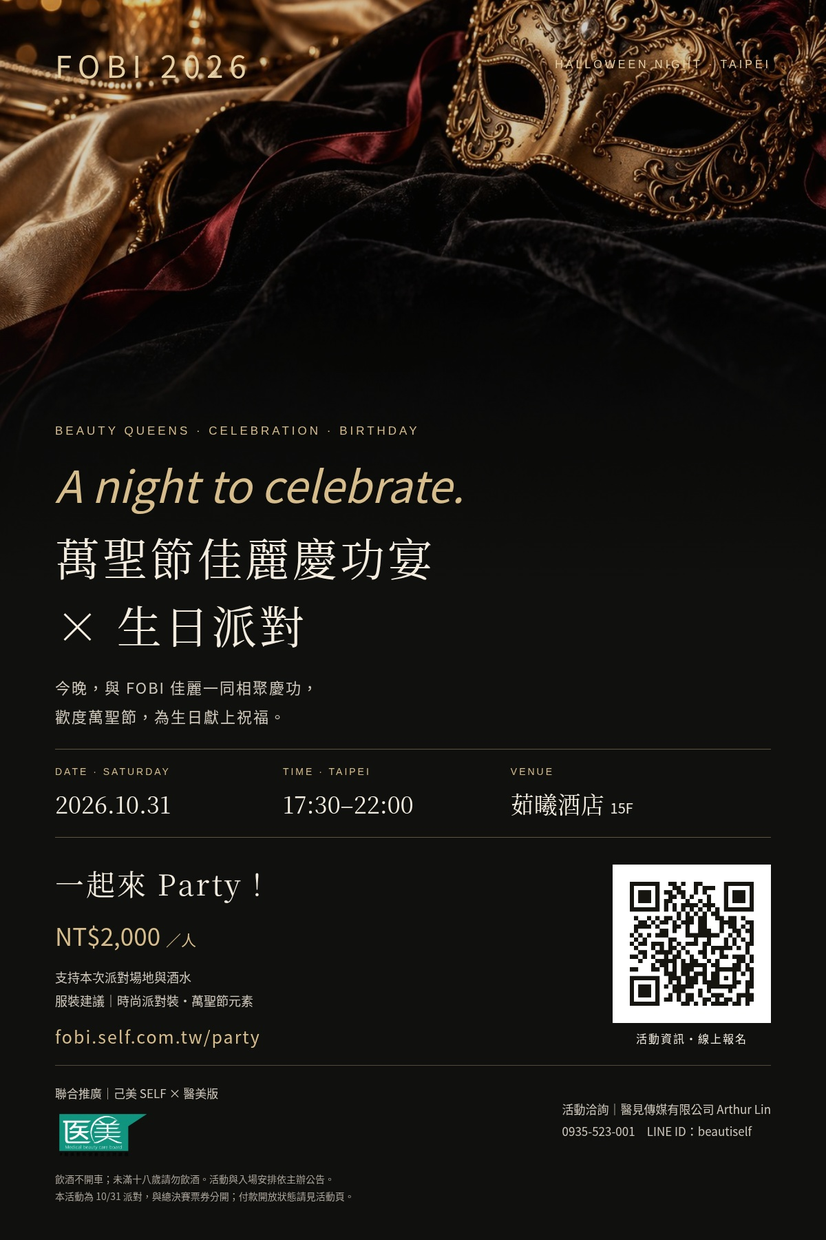
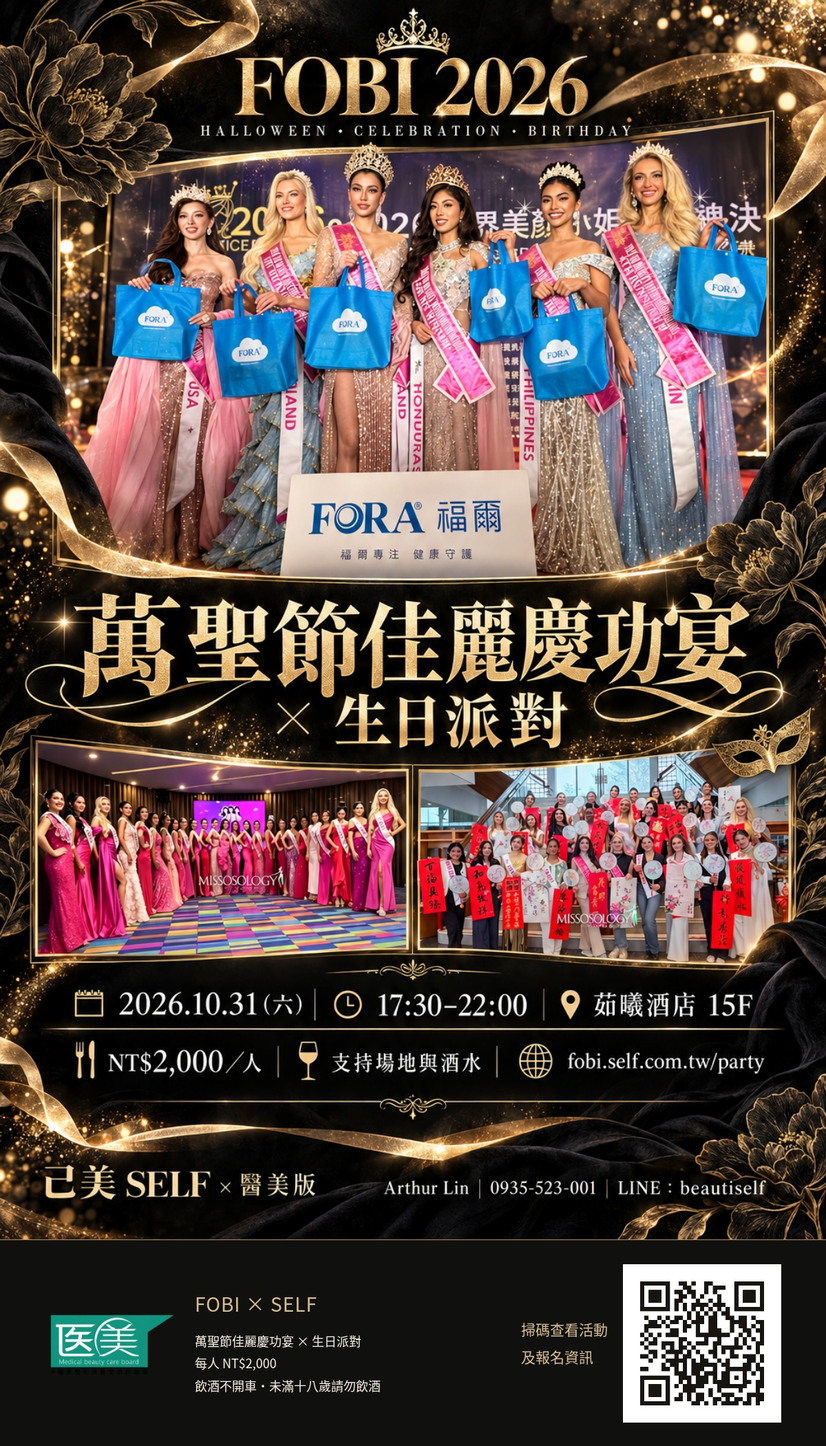
Add supplied queens photo artwork to Halloween invitation and party gallery

diff --git a/party.html b/party.html
@@ -1,1 +1,1 @@
-<!doctype html><html lang="zh-Hant"><head><meta charset="utf-8"><meta name="viewport" content="width=device-width,initial-scale=1"><title>FOBI 萬聖節佳麗慶功宴 × 生日派對｜10/31 茹曦酒店</title><meta name="description" content="10月31日17:30–22:00，茹曦酒店15F。FOBI萬聖節佳麗慶功宴與生日派對，每人NT$2,000，支持場地與酒水，一起共度時尚派對夜。"><meta property="og:title" content="今晚，與佳麗一起慶功｜FOBI Halloween Party"><meta property="og:description" content="10.31｜17:30–22:00｜茹曦酒店15F｜NT$2,000／人"><meta property="og:image" content="https://fobi.self.com.tw/party/invitation-2000.jpg"><meta property="og:url" content="https://fobi.self.com.tw/party"><link rel="stylesheet" href="/party/party.css"></head><body><header><a class="wordmark" href="/">FOBI <span>2026</span></a><a class="nav-link" href="#join">加入派對 ↗</a></header><main><section class="hero"><div class="art" aria-hidden="true"></div><div class="hero-content"><div class="eyebrow">31 OCTOBER · TAIPEI · ONE BEAUTIFUL NIGHT</div><p class="script">A night to celebrate.</p><h1>萬聖節佳麗慶功宴<br><span>× 生日派對</span></h1><p class="english">HALLOWEEN · BEAUTY QUEENS · BIRTHDAY</p><p class="intro">今晚，把掌聲留給舞台上的她們，<br>也把祝福留給值得慶祝的每一刻。</p><a class="primary" href="#join">一起來 Party <span>↗</span></a></div><div class="event-strip"><div><small>DATE</small><strong>2026.10.31 <em>六</em></strong></div><div><small>TIME · TAIPEI</small><strong>17:30—22:00</strong></div><div><small>VENUE</small><strong>茹曦酒店 <em>15F</em></strong></div></div></section><section class="story"><div><div class="eyebrow">CELEBRATE TOGETHER</div><h2>卸下舞台的緊張，<br>繼續閃耀。</h2></div><div><p>FOBI 佳麗將一同到場，與大家相聚慶功、歡度萬聖節，也為生日獻上祝福。邀請您一起支持場地與酒水，讓這個夜晚更精彩。</p><p class="muted">服裝建議｜時尚派對裝・可搭配萬聖節元素<br>飲酒不開車；未滿十八歲請勿飲酒。</p><a class="text-link" href="https://www.google.com/maps/search/?api=1&amp;query=茹曦酒店" target="_blank" rel="noopener">查看茹曦酒店位置 ↗</a></div></section><section id="join" class="booking"><div class="booking-copy"><div class="eyebrow">YOU ARE INVITED</div><h2>今晚，<br>一起 Party。</h2><div class="price"><small>每人</small> NT$2,000</div><p>支持本次派對場地與酒水。<br>本活動為 10/31 派對，與總決賽票券分開。</p><a class="text-link" href="/party/invitation-2000.jpg" download>下載派對邀請卡 ↗</a><p class="contact">活動洽詢｜Arthur Lin<br><a href="tel:+886935523001">0935-523-001</a> · LINE：beautiself</p></div><form id="partyForm"><div class="login"><button type="button" data-provider="google" disabled>己美會員登入</button><button type="button" class="line" data-provider="line" disabled>LINE 快速登入</button></div><p class="muted small" id="memberStatus" role="status">亦可直接填寫資料報名。</p><label>姓名<input id="name" name="name" autocomplete="name" maxlength="120" required></label><div class="form-row"><label>手機<input id="phone" name="phone" type="tel" autocomplete="tel" pattern="[+0-9 ()\-]{7,30}" required></label><label>電子郵件<input id="email" name="email" type="email" autocomplete="email" maxlength="180" required></label></div><label>參加人數<select id="quantity" name="quantity"><option value="1">1 位</option><option value="2">2 位</option><option value="3">3 位</option><option value="4">4 位</option><option value="5">5 位</option><option value="6">6 位</option><option value="7">7 位</option><option value="8">8 位</option><option value="9">9 位</option><option value="10">10 位</option></select></label><div class="total"><span>應付總額</span><strong id="total">NT$2,000</strong></div><p id="paymentStatus" class="payment-status" role="status">正在確認線上付款狀態…</p><button class="primary pay" id="pay" type="submit" disabled>前往綠界付款 ↗</button><p id="formStatus" class="small" role="status" aria-live="polite"></p><div id="receipt" hidden></div><p class="muted small">付款結果以系統查核為準；活動異動、取消或退款事宜，請聯絡活動窗口。</p></form></section></main><footer><div>FOBI 2026 <span>× 己美 SELF × 醫美版</span><img src="https://www.self.com.tw/fobi/assets/medical-board-logo.png" alt="醫美版" width="130"></div><div>合作洽詢｜醫見傳媒有限公司 Arthur Lin<br>0935-523-001 · LINE ID beautiself</div></footer><script type="module" src="/party-flow.js"></script></body></html>
+<!doctype html><html lang="zh-Hant"><head><meta charset="utf-8"><meta name="viewport" content="width=device-width,initial-scale=1"><title>FOBI 萬聖節佳麗慶功宴 × 生日派對｜10/31 茹曦酒店</title><meta name="description" content="10月31日17:30–22:00，茹曦酒店15F。FOBI萬聖節佳麗慶功宴與生日派對，每人NT$2,000，支持場地與酒水，一起共度時尚派對夜。"><meta property="og:title" content="今晚，與佳麗一起慶功｜FOBI Halloween Party"><meta property="og:description" content="10.31｜17:30–22:00｜茹曦酒店15F｜NT$2,000／人"><meta property="og:image" content="https://fobi.self.com.tw/party/invitation-queens-2000.jpg"><meta property="og:url" content="https://fobi.self.com.tw/party"><link rel="stylesheet" href="/party/party.css"></head><body><header><a class="wordmark" href="/">FOBI <span>2026</span></a><a class="nav-link" href="#join">加入派對 ↗</a></header><main><section class="hero"><div class="art" aria-hidden="true"></div><div class="hero-content"><div class="eyebrow">31 OCTOBER · TAIPEI · ONE BEAUTIFUL NIGHT</div><p class="script">A night to celebrate.</p><h1>萬聖節佳麗慶功宴<br><span>× 生日派對</span></h1><p class="english">HALLOWEEN · BEAUTY QUEENS · BIRTHDAY</p><p class="intro">今晚，把掌聲留給舞台上的她們，<br>也把祝福留給值得慶祝的每一刻。</p><a class="primary" href="#join">一起來 Party <span>↗</span></a></div><div class="event-strip"><div><small>DATE</small><strong>2026.10.31 <em>六</em></strong></div><div><small>TIME · TAIPEI</small><strong>17:30—22:00</strong></div><div><small>VENUE</small><strong>茹曦酒店 <em>15F</em></strong></div></div></section><section class="queens-feature" aria-labelledby="queens-title"><a class="queens-poster" href="/party/invitation-queens-2000.jpg" target="_blank" rel="noopener"><img src="/party/invitation-queens-2000.jpg" width="1200" height="2100" alt="FOBI佳麗慶功宴邀請圖，包含加冕、禮服及文化交流照片素材；每人NT$2,000" loading="lazy"></a><div class="queens-copy"><div class="eyebrow">FOBI · BEAUTY QUEENS</div><h2 id="queens-title">佳麗風采，<br>今晚一起閃耀。</h2><p>從禮服亮相、文化交流到加冕時刻，邀請您與 FOBI 佳麗相聚，為這趟美麗旅程一起慶功。</p><p class="muted small">本宣傳圖依您提供的三張活動照片素材製作。更多活動影像請見 Missosology Facebook。</p><a class="primary" href="#join">NT$2,000／人・加入派對 ↗</a><div class="queens-links"><a class="text-link" href="/party/invitation-queens-2000.jpg" download>下載佳麗版邀請卡 ↗</a><a class="text-link" href="https://www.facebook.com/share/1VcuHaDsvs/?mibextid=wwXIfr" target="_blank" rel="noopener noreferrer">查看 Facebook 活動影像 ↗</a></div></div></section><section class="story"><div><div class="eyebrow">CELEBRATE TOGETHER</div><h2>卸下舞台的緊張，<br>繼續閃耀。</h2></div><div><p>FOBI 佳麗將一同到場，與大家相聚慶功、歡度萬聖節，也為生日獻上祝福。邀請您一起支持場地與酒水，讓這個夜晚更精彩。</p><p class="muted">服裝建議｜時尚派對裝・可搭配萬聖節元素<br>飲酒不開車；未滿十八歲請勿飲酒。</p><a class="text-link" href="https://www.google.com/maps/search/?api=1&amp;query=茹曦酒店" target="_blank" rel="noopener">查看茹曦酒店位置 ↗</a></div></section><section id="join" class="booking"><div class="booking-copy"><div class="eyebrow">YOU ARE INVITED</div><h2>今晚，<br>一起 Party。</h2><div class="price"><small>每人</small> NT$2,000</div><p>支持本次派對場地與酒水。<br>本活動為 10/31 派對，與總決賽票券分開。</p><a class="text-link" href="/party/invitation-queens-2000.jpg" download>下載派對邀請卡 ↗</a><p class="contact">活動洽詢｜Arthur Lin<br><a href="tel:+886935523001">0935-523-001</a> · LINE：beautiself</p></div><form id="partyForm"><div class="login"><button type="button" data-provider="google" disabled>己美會員登入</button><button type="button" class="line" data-provider="line" disabled>LINE 快速登入</button></div><p class="muted small" id="memberStatus" role="status">亦可直接填寫資料報名。</p><label>姓名<input id="name" name="name" autocomplete="name" maxlength="120" required></label><div class="form-row"><label>手機<input id="phone" name="phone" type="tel" autocomplete="tel" pattern="[+0-9 ()\-]{7,30}" required></label><label>電子郵件<input id="email" name="email" type="email" autocomplete="email" maxlength="180" required></label></div><label>參加人數<select id="quantity" name="quantity"><option value="1">1 位</option><option value="2">2 位</option><option value="3">3 位</option><option value="4">4 位</option><option value="5">5 位</option><option value="6">6 位</option><option value="7">7 位</option><option value="8">8 位</option><option value="9">9 位</option><option value="10">10 位</option></select></label><div class="total"><span>應付總額</span><strong id="total">NT$2,000</strong></div><p id="paymentStatus" class="payment-status" role="status">正在確認線上付款狀態…</p><button class="primary pay" id="pay" type="submit" disabled>前往綠界付款 ↗</button><p id="formStatus" class="small" role="status" aria-live="polite"></p><div id="receipt" hidden></div><p class="muted small">付款結果以系統查核為準；活動異動、取消或退款事宜，請聯絡活動窗口。</p></form></section></main><footer><div>FOBI 2026 <span>× 己美 SELF × 醫美版</span><img src="https://www.self.com.tw/fobi/assets/medical-board-logo.png" alt="醫美版" width="130"></div><div>合作洽詢｜醫見傳媒有限公司 Arthur Lin<br>0935-523-001 · LINE ID beautiself</div></footer><script type="module" src="/party-flow.js"></script></body></html>

diff --git a/public/party/party.css b/public/party/party.css
@@ -1,2 +1,4 @@
 @import url('https://fonts.googleapis.com/css2?family=Noto+Serif+TC:wght@400;500;600&display=swap');
 :root{color-scheme:dark;--bg:#10100f;--gold:#d7bd8c;--ink:#f3ecdf;--muted:#aaa398}*{box-sizing:border-box}html{scroll-behavior:smooth;scroll-padding-top:24px}body{margin:0;background:var(--bg);color:var(--ink);font-family:Arial,'Noto Sans CJK TC',sans-serif}a{color:inherit;text-decoration:none}button,input,select{font:inherit}button,a,input,select{-webkit-tap-highlight-color:transparent}:focus-visible{outline:2px solid var(--gold);outline-offset:5px}header{position:absolute;z-index:2;top:0;left:0;width:100%;display:flex;align-items:center;justify-content:space-between;padding:30px 6vw;border-bottom:1px solid #ffffff19}.wordmark{font:30px Georgia;letter-spacing:7px}.wordmark span{font:12px Arial;letter-spacing:3px}.nav-link{font-size:14px;letter-spacing:2px}.hero{min-height:840px;position:relative;isolation:isolate;display:flex;align-items:center;overflow:hidden}.art{position:absolute;z-index:-2;inset:0;background:linear-gradient(90deg,#10100ff5 0%,#10100fc4 30%,#10100f05 85%),linear-gradient(0deg,#10100f,transparent 35%),url('/party/masquerade.jpg') right 23%/65% auto no-repeat;animation:reveal 1.5s ease-out}.hero-content{padding:180px 7vw 195px;max-width:1000px}.eyebrow{font-size:11px;letter-spacing:3px;color:var(--gold);line-height:1.9}.script{font:italic 51px Georgia;color:var(--gold);margin:36px 0 18px}.hero h1{font:500 clamp(34px,4.3vw,66px)/1.5 'Noto Serif TC','Noto Serif CJK TC',serif;letter-spacing:3px;margin:0 0 18px}.hero h1 span{font-weight:400}.english{font:11px Arial;letter-spacing:3px;color:var(--gold);line-height:1.8}.intro{font-size:17px;line-height:2;color:#d4ccbf;margin:26px 0}.primary{display:inline-flex;align-items:center;justify-content:center;gap:48px;min-height:55px;padding:17px 28px;background:var(--gold);color:#171510;border:0;cursor:pointer;font-size:16px;letter-spacing:2px;transition:background .2s,transform .2s}.primary:hover{background:#ebd8b1;transform:translateY(-2px)}.event-strip{position:absolute;bottom:35px;left:7vw;right:7vw;display:grid;grid-template-columns:repeat(3,1fr);border-top:1px solid #d7bd8c55;padding-top:24px;gap:25px}.event-strip small{display:block;color:var(--gold);font-size:10px;letter-spacing:3px;margin-bottom:12px}.event-strip strong{font:27px Georgia,'Noto Serif CJK TC',serif;font-weight:400}.event-strip em{font:15px Arial;font-style:normal;margin-left:9px}.story,.booking{max-width:1240px;margin:auto;padding:90px 7vw;display:grid;grid-template-columns:1fr 1fr;gap:80px}.story{border-bottom:1px solid #ffffff20}.story h2,.booking h2{font:400 43px/1.55 'Noto Serif TC','Noto Serif CJK TC',serif;letter-spacing:3px;margin:20px 0}.story p,.booking-copy p{font-size:16px;line-height:2;color:#d1c9bc}.muted{color:var(--muted)!important}.small{font-size:13px;line-height:1.8}.text-link{display:inline-block;font-size:14px;color:var(--gold);border-bottom:1px solid #d7bd8c66;padding:6px 0}.booking{padding-top:85px;padding-bottom:90px;gap:80px;max-width:1240px}.price{font:38px Georgia;color:var(--gold);margin:25px 0}.price small{font:14px Arial;margin-right:8px}.contact{margin-top:35px}form{padding:28px;background:#1a1916;border:1px solid #d7bd8c35;border-radius:2px}.login{display:flex;gap:10px}.login button{width:50%;min-height:48px;background:transparent;color:var(--ink);border:1px solid #8e826d;cursor:pointer;font-size:14px}.login .line{border-color:#38a26a;color:#9ae4b7}label{display:block;font-size:14px;margin:18px 0;color:#ded5c5}input,select{display:block;width:100%;min-height:48px;padding:12px;border:1px solid #5e584b;background:#121210;color:var(--ink);border-radius:0;margin-top:8px}.form-row{display:grid;grid-template-columns:1fr 1fr;gap:15px}.total{display:flex;justify-content:space-between;border-top:1px solid #d7bd8c44;margin-top:25px;padding:22px 0 7px}.total strong{font:28px Georgia;color:var(--gold)}.payment-status{font-size:14px;line-height:1.8;color:#e5c895}.pay{width:100%;margin-top:6px}button:disabled{opacity:.48;cursor:not-allowed;transform:none}#receipt{border:1px solid var(--gold);padding:16px;overflow-wrap:anywhere;line-height:1.8}footer{border-top:1px solid #ffffff20;padding:32px 7vw;display:flex;justify-content:space-between;gap:30px;font:14px/2 Arial;color:var(--muted)}footer span{font-size:12px}footer img{display:block;margin-top:12px;width:130px;height:auto}footer div:last-child{text-align:right}@keyframes reveal{from{opacity:0;transform:scale(1.03)}to{opacity:1;transform:scale(1)}}@media(max-width:760px){header{padding:24px}.hero{min-height:850px}.art{background:linear-gradient(0deg,#10100f 8%,#10100fd9 45%,#10100f05),url('/party/masquerade.jpg') center top/100% auto no-repeat}.hero-content{padding:275px 24px 200px}.script{font-size:36px;margin:12px 0}.hero h1{font-size:32px;letter-spacing:1px}.eyebrow{font-size:9px;letter-spacing:1.5px}.english{font-size:9px;letter-spacing:1px}.intro{font-size:15px}.event-strip{left:24px;right:24px;gap:20px;grid-template-columns:1fr 1fr;bottom:25px}.event-strip div:last-child{grid-column:1/-1}.event-strip strong{font-size:22px}.event-strip small{margin-bottom:7px}.story,.booking{display:block;padding:50px 24px}.story h2,.booking h2{font-size:34px}.story>div+div{margin-top:25px}.booking-copy{margin-bottom:30px}.form-row{display:block}form{padding:22px}footer{padding:28px 24px;display:block}footer div:last-child{text-align:left;margin-top:20px}.contact{margin-top:22px}.price{font-size:33px}}@media(prefers-reduced-motion:reduce){html{scroll-behavior:auto}.art{animation:none}.primary{transition:none}}
+
+.queens-feature{max-width:1240px;margin:auto;padding:80px 7vw;display:grid;grid-template-columns:1fr 1fr;align-items:center;gap:65px;border-bottom:1px solid #ffffff20}.queens-poster{display:block;border:1px solid #d7bd8c55;box-shadow:0 18px 70px #0008}.queens-poster img{display:block;width:100%;height:auto}.queens-copy h2{font:400 42px/1.6 'Noto Serif TC','Noto Serif CJK TC',serif;letter-spacing:3px}.queens-copy p{font-size:16px;line-height:2;color:#d1c9bc}.queens-links{display:flex;flex-wrap:wrap;gap:15px;margin-top:20px}.queens-copy .primary{margin-top:16px;letter-spacing:1px;font-size:14px}@media(max-width:760px){.queens-feature{display:flex;flex-direction:column;padding:45px 24px;gap:28px}.queens-poster{width:100%;max-width:460px}.queens-copy{width:100%}.queens-copy h2{font-size:32px}.queens-copy .primary{width:100%;gap:10px}}
